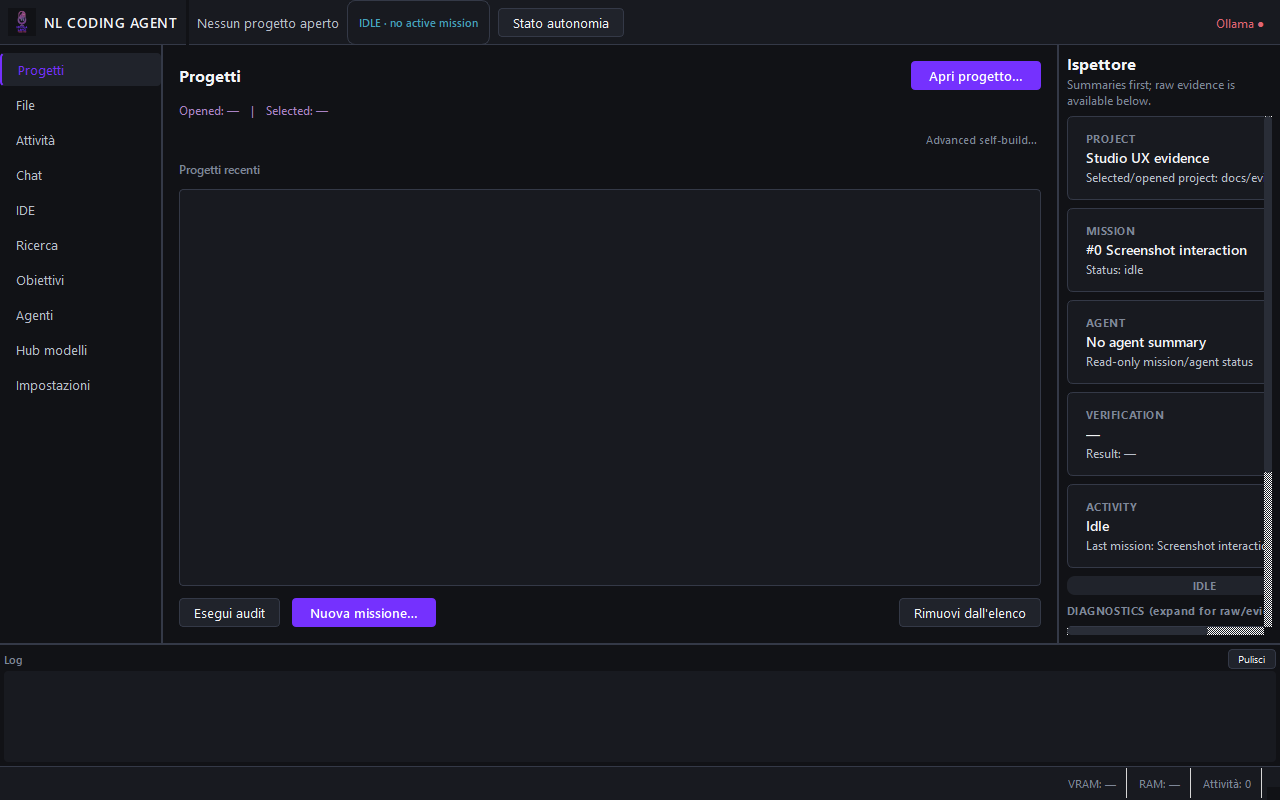
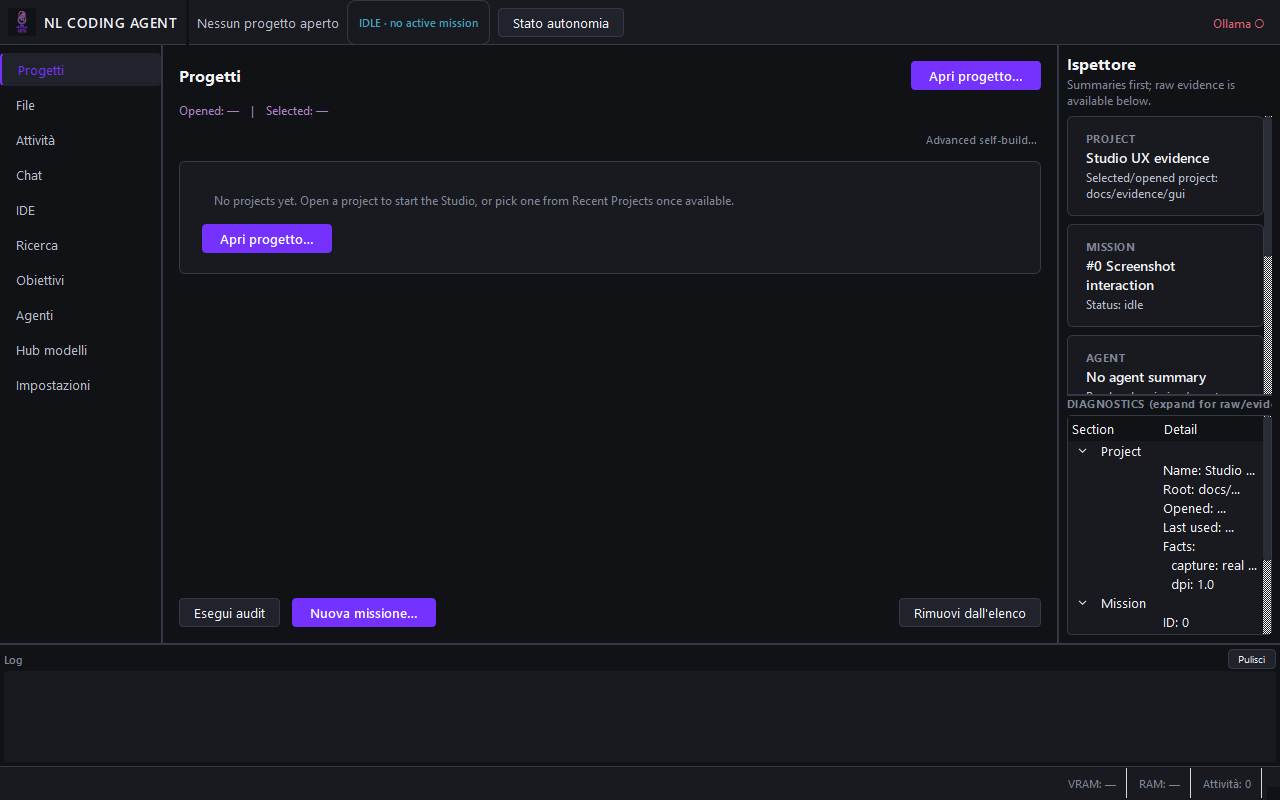
fix(studio): remove real-screenshot layout defects, improve responsive Inspector/Projects and re-capture evidence
Fixes the concrete defects found in the real 1280x800 capture. Inspector summary cards and labels now wrap/expand correctly and no longer force horizontal clipping; the inspector scroll area is vertical-only with the horizontal scrollbar permanently disabled, cards live in a vertical-scroll pane and the expandable diagnostics tree is a visible lower split pane with a stretch-last detail column, an interactive section column and no horizontal scroll. The inspector has a practical 268 px minimum and ~300 px default splitter width while remaining user-resizable. Projects replaces the large blank area with a compact no-projects guidance card (Open Project action + recent-project guidance) that hides when projects exist, while Opened vs Selected identity and the subtle Advanced self-build link stay visible. Header project/activity labels are bounded so the opened-project identity, IDLE/RUNNING activity badge and autonomy status remain readable without overlap at 1280/1600.
[…]

Changed region(s): [[0.8125, 0.2188, 1.0, 0.8125], [0.1562, 0.25, 0.5625, 0.3438], [0.125, 0.1875, 0.2188, 0.2188]]

diff --git a/nl_coding_agent/gui/widgets/inspector_panel.py b/nl_coding_agent/gui/widgets/inspector_panel.py
@@ -9,7 +9,8 @@ from __future__ import annotations
 import json
 
 from PySide6.QtCore import Qt
-from PySide6.QtWidgets import (QFrame, QHBoxLayout, QLabel, QScrollArea,
+from PySide6.QtWidgets import (QFrame, QHBoxLayout, QHeaderView, QLabel,
+                               QScrollArea, QSizePolicy, QSplitter,
                                QTreeWidget, QTreeWidgetItem, QVBoxLayout,
                                QWidget)
 
@@ -27,6 +28,9 @@ class InspectorPanel(QWidget):
         self._last_render = None
         self.setObjectName("inspectorPanel")
         self.setAccessibleName("Inspector: summaries and expandable diagnostics")
+        self.setMinimumWidth(268)
+        self.setSizePolicy(QSizePolicy.Policy.Preferred,
+                           QSizePolicy.Policy.Expanding)
         layout = QVBoxLayout(self)
         layout.setContentsMargins(8, 8, 8, 8)
         layout.setSpacing(8)
@@ -36,16 +40,26 @@ class InspectorPanel(QWidget):
         scroll = QScrollArea()
         scroll.setWidgetResizable(True)
         scroll.setFrameShape(QFrame.Shape.NoFrame)
+        scroll.setHorizontalScrollBarPolicy(Qt.ScrollBarPolicy.ScrollBarAlwaysOff)
         scroll.setAccessibleName("Inspector summary and diagnostics scroll")
+        self._scroll = scroll
         body = QWidget()
+        body.setMinimumWidth(0)
+        body.setSizePolicy(QSizePolicy.Policy.Ignored,
+                           QSizePolicy.Policy.Preferred)
         body_layout = QVBoxLayout(body)
         body_layout.setContentsMargins(0, 0, 0, 0)
         body_layout.setSpacing(8)
+        body_layout.setSizeConstraint(
+            __import__("PySide6.QtWidgets", fromlist=["QLayout"]).QLayout
+            .SizeConstraint.SetNoConstraint)
         self._cards: dict[str, QFrame] = {}
         for key, title in (("project", "Project"), ("mission", "Mission"),
                            ("agent", "Agent"), ("verification", "Verification"),
                            ("activity", "Activity")):
             card = summary_card(title, "—", "No data yet", accessible_name=title)
+            card.setSizePolicy(QSizePolicy.Policy.Expanding,
+                               QSizePolicy.Policy.Minimum)
             self._cards[key] = card
             body_layout.addWidget(card)
         self._status_badge = status_badge("IDLE", "idle")
@@ -53,16 +67,39 @@ class InspectorPanel(QWidget):
         self._diagnostics_title = QLabel("DIAGNOSTICS (expand for raw/evidence/errors)")
         self._diagnostics_title.setObjectName("nlCardTitle")
         self._diagnostics_title.setAccessibleName("Expandable inspector diagnostics")
-        body_layout.addWidget(self._diagnostics_title)
         self._diagnostics = QTreeWidget()
         self._diagnostics.setHeaderLabels(["Section", "Detail"])
         self._diagnostics.setAccessibleName("Expandable raw diagnostics tree")
         self._diagnostics.setMinimumHeight(220)
+        self._diagnostics.setMinimumWidth(0)
+        self._diagnostics.setWordWrap(True)
+        self._diagnostics.setTextElideMode(Qt.TextElideMode.ElideRight)
+        self._diagnostics.setHorizontalScrollBarPolicy(
+            Qt.ScrollBarPolicy.ScrollBarAlwaysOff)
+        self._diagnostics.header().setStretchLastSection(True)
+        self._diagnostics.header().setSectionResizeMode(
+            0, QHeaderView.ResizeMode.Interactive)
+        self._diagnostics.setColumnWidth(0, 92)
+        self._diagnostics.setSizePolicy(QSizePolicy.Policy.Expanding,
+                                        QSizePolicy.Policy.Expanding)
         self._diagnostics.setEditTriggers(
             QTreeWidget.EditTrigger.NoEditTriggers)
-        body_layout.addWidget(self._diagnostics, 1)
+        diagnostics_box = QWidget()
+        diagnostics_layout = QVBoxLayout(diagnostics_box)
+        diagnostics_layout.setContentsMargins(0, 0, 0, 0)
+        diagnostics_layout.setSpacing(4)
+        diagnostics_layout.addWidget(self._diagnostics_title)
+        diagnostics_layout.addWidget(self._diagnostics, 1)
+        split = QSplitter(Qt.Orientation.Vertical)
+        split.setChildrenCollapsible(False)
         scroll.setWidget(body)
-        layout.addWidget(scroll, 1)
+        split.addWidget(scroll)
+        split.addWidget(diagnostics_box)
+        split.setSizes([430, 260])
+        split.setStretchFactor(0, 1)
+        split.setStretchFactor(1, 1)
+        self._split = split
+        layout.addWidget(split, 1)
 
     # ---------------------------------------------------------------- helpers
     def _set_card(self, key: str, value: str, detail: str = "") -> None:

diff --git a/tests/test_gui_status_state.py b/tests/test_gui_status_state.py
@@ -62,6 +62,44 @@ def test_selected_vs_opened_project_identity_is_unambiguous():
     assert panel._identity_label.accessibleName()
 
 
+
+
+def test_projects_empty_state_replaces_blank_area():
+    from nl_coding_agent.gui.widgets.projects_panel import ProjectsPanel
+
+    _app()
+    panel = ProjectsPanel(SimpleNamespace(list_recent_projects=lambda: []))
+    panel.resize(900, 600)
+    panel.show()
+    _app().processEvents()
+    assert panel._empty_card.isVisible() is True
+    assert panel._list.isVisible() is False
+    labels = panel._empty_card.findChildren(
+        __import__("PySide6.QtWidgets", fromlist=["QLabel"]).QLabel)
+    assert any("No projects yet" in label.text() for label in labels)
+    assert panel._identity_label.isVisible() is True
+    assert panel._self_build_btn.isVisible() is True
+    assert panel._empty_card.width() > 300
+
+
+def test_identity_remains_visible_and_readable_at_wide_width():
+    from nl_coding_agent.gui.widgets.projects_panel import ProjectsPanel
+
+    _app()
+    projects = [{"id": 1, "name": "One", "root": "X:/one", "last_used": "now"},
+                {"id": 2, "name": "Two", "root": "X:/two", "last_used": "now"}]
+    panel = ProjectsPanel(SimpleNamespace(
+        list_recent_projects=lambda: [dict(p) for p in projects]))
+    panel.set_opened_project(projects[0])
+    panel._list.setCurrentRow(1)
+    panel.resize(1280, 800)
+    panel.show()
+    _app().processEvents()
+    assert "Opened: One" in panel._identity_label.text()
+    assert "Selected: Two" in panel._identity_label.text()
+    assert panel._identity_label.isVisible() is True
+    assert panel._identity_label.width() > 200
+
 def test_settings_advanced_contains_self_build_activation_and_design_tokens():
     from nl_coding_agent.gui.theme import component_qss, design_tokens, load_tokens
 
@@ -79,6 +117,8 @@ def test_settings_advanced_contains_self_build_activation_and_design_tokens():
     finally:
         settings.deleteLater()
         services._db.close()
+        from nl_coding_agent.gui.i18n import reset_i18n
+        reset_i18n()
         QApplication.processEvents()
     tokens = load_tokens()
     derived = design_tokens(tokens)

diff --git a/nl_coding_agent/gui/widgets/projects_panel.py b/nl_coding_agent/gui/widgets/projects_panel.py
@@ -10,6 +10,7 @@ from PySide6.QtWidgets import (
 )
 from PySide6.QtCore import Signal, Qt
 
+from nl_coding_agent.gui.components import empty_state
 from nl_coding_agent.gui.i18n import tr_for
 
 
@@ -69,7 +70,24 @@ class ProjectsPanel(QWidget):
         self._list = QListWidget()
         self._list.setAlternatingRowColors(True)
         self._list.itemDoubleClicked.connect(self._on_item_double_clicked)
-        layout.addWidget(self._list)
+        layout.addWidget(self._list, 1)
+        self._empty_card = QFrame()
+        self._empty_card.setObjectName("nlSummaryCard")
+        self._empty_card.setMaximumHeight(220)
+        self._empty_card.setAccessibleName("No projects yet guidance")
+        empty_layout = QVBoxLayout(self._empty_card)
+        empty_layout.setContentsMargins(12, 12, 12, 12)
+        empty_layout.addWidget(empty_state(
+            "No projects yet. Open a project to start the Studio, or pick one "
+            "from Recent Projects once available."))
+        empty_open = QPushButton(tr_for(self._i18n, "projects.open",
+                                        "Open Project…"))
+        empty_open.setObjectName("primaryButton")
+        empty_open.setAccessibleName("Open project from empty state")
+        empty_open.clicked.connect(self._on_open_project)
+        empty_layout.addWidget(empty_open, alignment=Qt.AlignmentFlag.AlignLeft)
+        layout.addWidget(self._empty_card)
+        layout.addStretch(1)
 
         # Action buttons
         btns = QHBoxLayout()
@@ -135,6 +153,10 @@ class ProjectsPanel(QWidget):
                           "Last used: {last_used}", last_used=p["last_used"])
             )
             self._list.addItem(item)
+        has_projects = self._list.count() > 0
+        self._list.setVisible(has_projects)
+        self._empty_card.setVisible(not has_projects)
+        self._recent_label.setVisible(has_projects)
 
     def _on_open_project(self):
         from nl_coding_agent.gui.dialogs.open_project import OpenProjectDialog

diff --git a/nl_coding_agent/gui/components.py b/nl_coding_agent/gui/components.py
@@ -7,8 +7,8 @@ glow on text/code/logs, or business logic.
 from __future__ import annotations
 
 from PySide6.QtCore import Qt
-from PySide6.QtWidgets import (QFrame, QHBoxLayout, QLabel, QVBoxLayout,
-                               QWidget)
+from PySide6.QtWidgets import (QFrame, QHBoxLayout, QLabel, QSizePolicy,
+                               QVBoxLayout, QWidget)
 
 from .theme import design_tokens
 
@@ -49,15 +49,25 @@ def summary_card(title: str, value: str, detail: str = "", *,
     layout.setSpacing(2)
     title_label = QLabel(str(title).upper())
     title_label.setObjectName("nlCardTitle")
+    title_label.setWordWrap(True)
+    title_label.setMinimumWidth(0)
+    title_label.setSizePolicy(QSizePolicy.Policy.Ignored,
+                              QSizePolicy.Policy.Preferred)
     value_label = QLabel(str(value))
     value_label.setObjectName("nlCardValue")
     value_label.setWordWrap(True)
+    value_label.setMinimumWidth(0)
+    value_label.setSizePolicy(QSizePolicy.Policy.Ignored,
+                              QSizePolicy.Policy.Preferred)
     layout.addWidget(title_label)
     layout.addWidget(value_label)
     if detail:
         detail_label = QLabel(str(detail))
         detail_label.setObjectName("nlCardDetail")
         detail_label.setWordWrap(True)
+        detail_label.setMinimumWidth(0)
+        detail_label.setSizePolicy(QSizePolicy.Policy.Ignored,
+                                   QSizePolicy.Policy.Preferred)
         layout.addWidget(detail_label)
     return card
 

diff --git a/nl_coding_agent/gui/main_window.py b/nl_coding_agent/gui/main_window.py
@@ -306,8 +306,10 @@ class MainWindow(QMainWindow):
             self._i18n, "app.no_project", "No project open"))
         self._project_label.setObjectName("projectLabel")
         self._project_label.setAccessibleName("Opened project")
+        self._project_label.setMaximumWidth(310)
         header_layout.addWidget(self._project_label)
         self._activity_label = QLabel("IDLE · no active mission")
+        self._activity_label.setMaximumWidth(250)
         self._activity_label.setObjectName("nlActivityBadge")
         self._activity_label.setProperty("state", "idle")
         self._activity_label.setAccessibleName("Studio activity and current mission")
@@ -409,7 +411,8 @@ class MainWindow(QMainWindow):
         self._inspector = InspectorPanel(translator=self._i18n)
         main_splitter.addWidget(self._inspector)
 
-        main_splitter.setSizes([180, 780, 260])
+        main_splitter.setSizes([180, 760, 300])
+        self._inspector.setMinimumWidth(268)
         main_splitter.setStretchFactor(0, 0)
         main_splitter.setStretchFactor(1, 1)
         main_splitter.setStretchFactor(2, 0)

diff --git a/tests/test_inspector_panel.py b/tests/test_inspector_panel.py
@@ -40,6 +40,18 @@ def test_project_summary_cards_and_expandable_diagnostics():
     assert "Demo" in panel._cards["project"].findChildren(
         __import__("PySide6.QtWidgets", fromlist=["QLabel"]).QLabel)[1].text()
     assert isinstance(panel._diagnostics, QTreeWidget)
+    from PySide6.QtCore import Qt
+    panel.resize(268, 640)
+    panel.show()
+    QApplication.processEvents()
+    assert panel._scroll.horizontalScrollBarPolicy() ==         Qt.ScrollBarPolicy.ScrollBarAlwaysOff
+    assert panel._diagnostics.header().stretchLastSection() is True
+    for label in panel._cards["project"].findChildren(
+            __import__("PySide6.QtWidgets", fromlist=["QLabel"]).QLabel):
+        assert label.wordWrap() is True
+    panel.resize(1280, 800)
+    QApplication.processEvents()
+    assert panel._scroll.horizontalScrollBar().maximum() == 0
     assert panel._diagnostics.topLevelItemCount() >= 1
     project_item = panel._diagnostics.topLevelItem(0)
     assert project_item.childCount() >= 2

diff --git a/tests/test_gui_smoke.py b/tests/test_gui_smoke.py
@@ -39,6 +39,13 @@ def test_main_window_constructs_and_closes_cleanly(services, tmp_path):
     assert window._projects_panel._self_build_btn.objectName() == "subtleLinkButton"
     assert "Advanced self-build" in window._projects_panel._self_build_btn.text()
     assert window._inspector._cards and window._inspector._diagnostics
+    assert window._projects_panel._empty_card.isHidden() is False
+    assert window._projects_panel._list.isHidden() is True
+    from PySide6.QtCore import Qt
+    assert (window._inspector._scroll.horizontalScrollBarPolicy()
+            == Qt.ScrollBarPolicy.ScrollBarAlwaysOff)
+    assert window._project_label.maximumWidth() == 310
+    assert window._activity_label.maximumWidth() == 250
     assert "Self-Build (This Agent)" in window._settings_panel._self_build_heading.text()
     assert window._page_index == {
         "projects": 0,

diff --git a/docs/evidence/gui/SCREENSHOTS.md b/docs/evidence/gui/SCREENSHOTS.md
@@ -1,4 +1,4 @@
-# Studio GUI screenshot evidence (U2)
+# Studio GUI screenshot evidence (U4 layout re-capture)
 
 Status: measured real-window evidence, not a human aesthetic approval.
 
@@ -27,20 +27,25 @@ because Qt scale factors multiply logical pixels; the 1.5 capture was physically
 clamped at 1421 px height by the available desktop, so it is not a strict
 2880x1620 capture.
 
-## Inspected screenshot
+## Inspected screenshot (U4)
 
-docs/evidence/gui/STUDIO_1280x800_DPI100.png was visually inspected: the Studio
-shell shows the token-based header/activity badge, Project identity line, compact
-Projects page with only the subtle Advanced self-build link, structured Inspector
-cards (Project/Mission/Agent/Verification/Activity), diagnostics tree and status
-bar. The screenshot confirms visual hierarchy and readable status; this is
-functional/visual evidence, not human aesthetic sign-off.
+docs/evidence/gui/STUDIO_1280x800_DPI100.png was visually inspected after the U4
+fixes. The Inspector cards now fit the panel and wrap their values/details (no
+horizontal clipping or horizontal scrollbar); the diagnostics tree is a visible
+lower pane with wrapped/elided detail and interactive first column. Projects shows
+a compact no-projects guidance card with an Open Project action instead of a large
+blank box, while Opened/Selected identity and the subtle Advanced self-build link
+remain visible. Header project/activity/autonomy labels stay readable at 1280.
+U4 measured result: Inspector scroll area horizontal scrollbar disabled; splitter
+inspector minimum width 268 and default width 300; diagnostics pane visible at
+1280x800. This is functional/visual evidence, not human aesthetic sign-off.
 
 ## Limitations / MANUAL-PENDING
 
 - Host desktop, font availability (Qt emitted a QFontDatabase "no fonts" warning on
   this embedded runtime) and OS DPI scaling vary; exact layout on other hardware is
-  untested.
+  untested. At 1280 the card area scrolls vertically for the lower cards; the
+  diagnostics detail column elides very long values (no horizontal scroll by design).
 - The interaction sequence is scripted and bounded; real project content, real
   missions, live services and accessibility with a screen reader remain
   MANUAL-PENDING.

diff --git a/docs/STUDIO_UX.md b/docs/STUDIO_UX.md
@@ -1,4 +1,4 @@
-# Studio UX U2 - visual polish and evidence (NL-BP-238/239/240/241)
+# Studio UX U2/U4 - visual polish, layout fixes and evidence (NL-BP-238/239/240/241)
 
 ## Design system
 
@@ -36,6 +36,13 @@ styles where practical.
   (Project, Mission, Agent, Verification, Activity), an activity badge, and an
   expandable diagnostics tree retaining raw facts/evidence/errors and file text.
   Copy/export was not present before and was not removed.
+- U4 layout fixes: inspector labels/cards wrap and expand, the inspector scrolls
+  vertically only (horizontal scrollbar disabled at 1280), cards sit in a vertically
+  scrollable upper pane and diagnostics in a visible lower split pane with a
+  stretch-last detail column; the splitter gives the inspector a 268 px minimum /
+  ~300 px default width while preserving user resizing. Projects uses a compact
+  empty-state card (Open Project + recent-project guidance) instead of a blank box.
+  Header opened/activity/autonomy labels have bounded widths at 1280/1600.
 
 ## Verification and evidence
 
